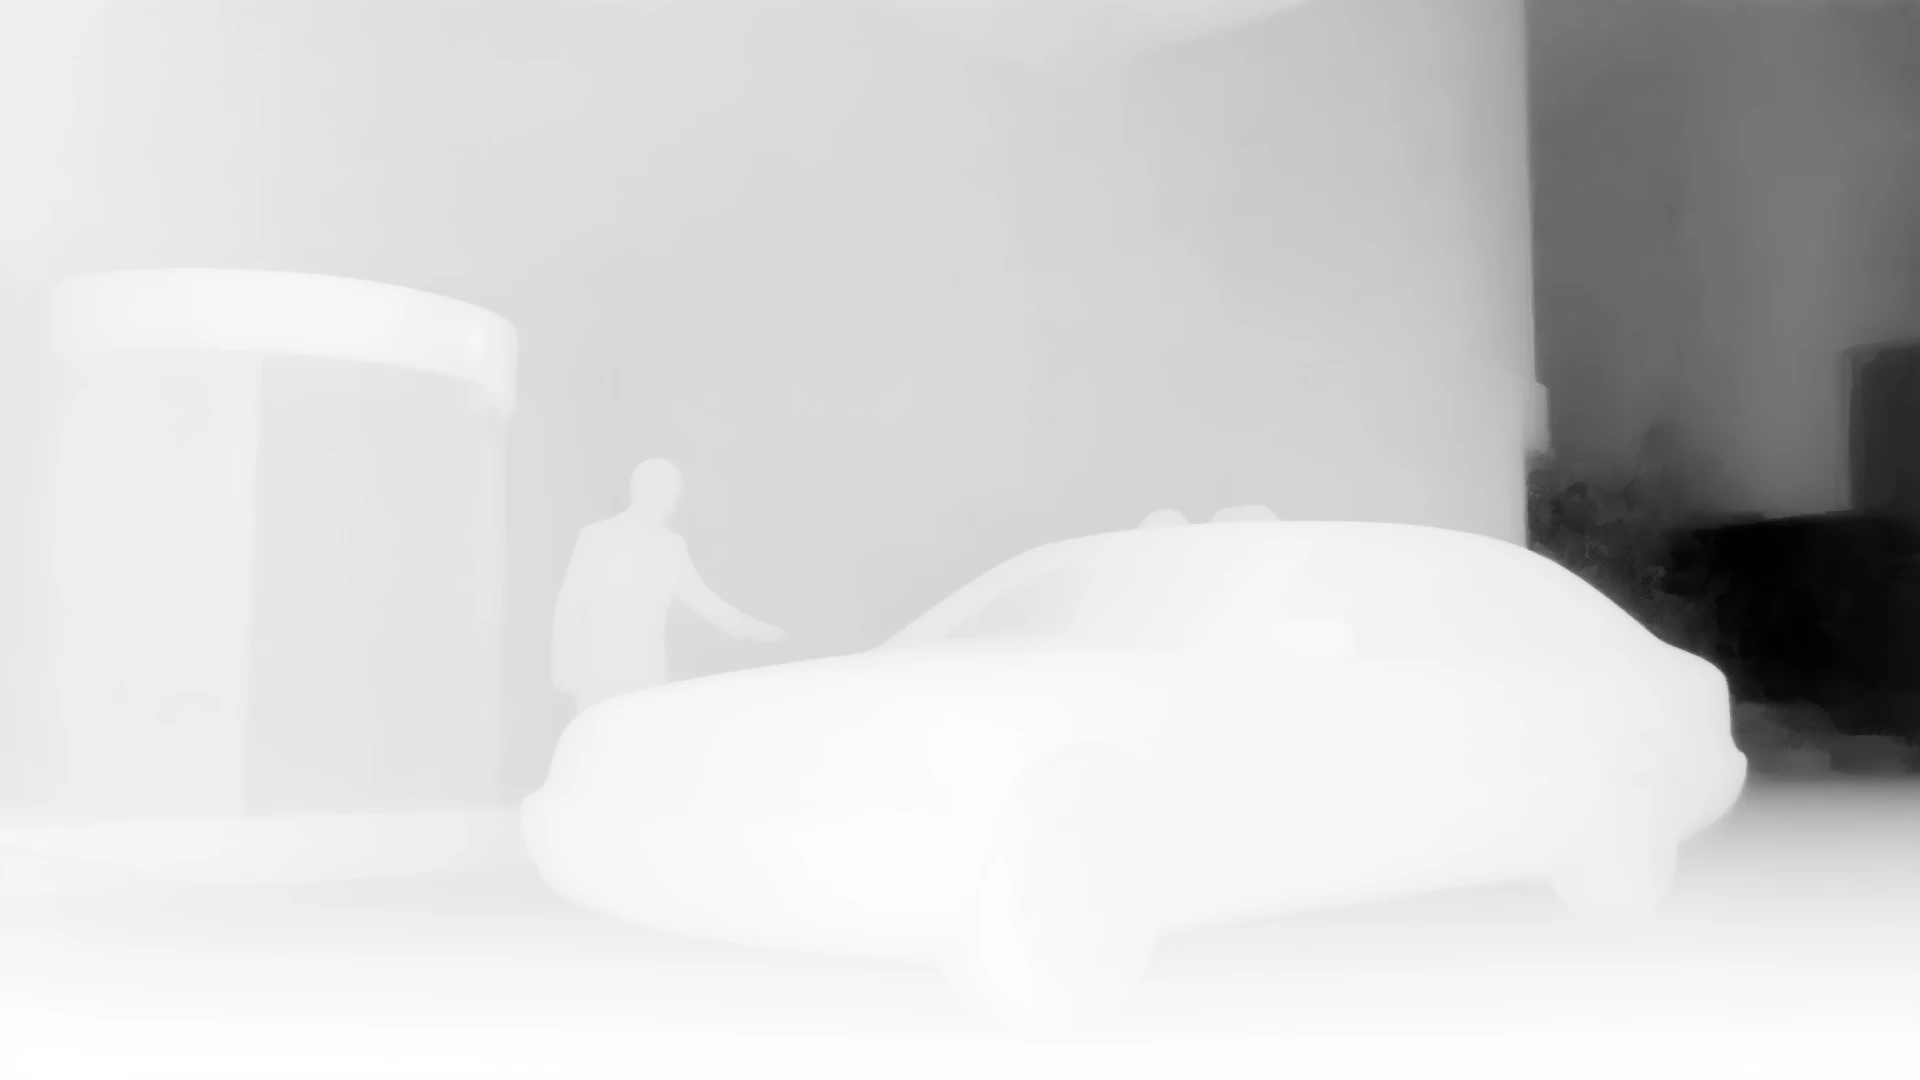
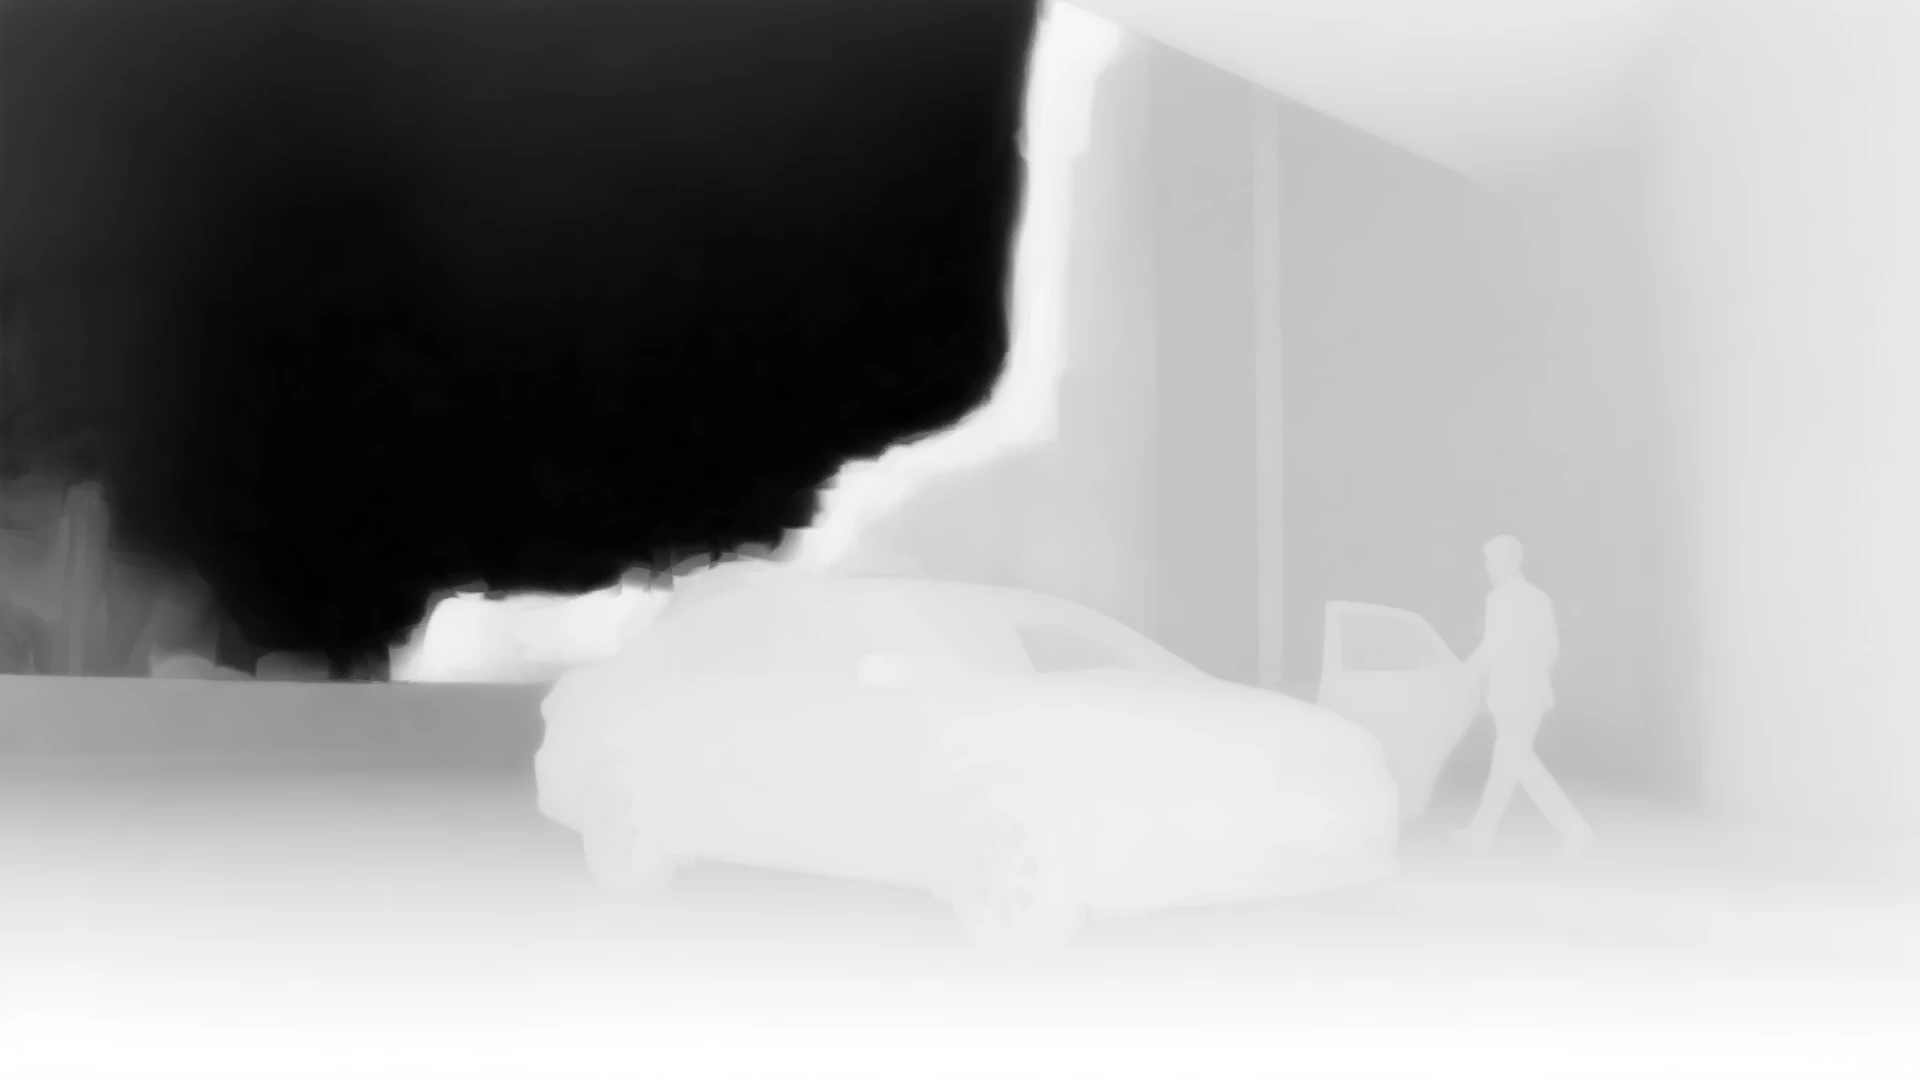
fix(media): reshoot service/airport, service/business, trust with named fleet vehicles
Reshot the three scenes flagged in the S1 inventory: prompts now name the actual
fleet vehicle (Toyota Alphard-class MPV, Corolla Altis-class sedan) instead of a
generic role description, following the pattern that already fixed hero.

trust improved substantially (no more gold-plated door trim or fabricated bottle
label) but still has a small gold latch and chrome sill trim. service/airport and
service/business each traded their original trade-dress problem for a different
set of violations (gold badge/trim, taxi-style roof light, visible sun, teal
signage) rather than landing clean - not usable as-is, no third attempt made per
the no-retry-chasing rule. Full per-scene findings and the scene/airport canopy
decision are in the updated inventory doc.

diff --git a/scripts/media/scenes.ts b/scripts/media/scenes.ts
@@ -14,11 +14,11 @@ export const SCENES: Scene[] = [
   },
   {
     id: 'service/airport', dir: 'parallax/service/airport', width: 1920, height: 1080, needsDepth: true,
-    prompt: `Arrival hall of a modern Asian airport seen from a distance, a chauffeur waiting with a name board, travellers blurred in motion, wide calm composition with space on the left. ${PALETTE}`,
+    prompt: `A plain black Toyota Alphard class three-row MPV van waiting at an airport arrivals kerb, no roof sign, no taxi markings, no signboard, plain unadorned grille with no ornament and no badge, a chauffeur in a dark suit standing at the open sliding door, glass terminal facade and a concrete canopy behind, travellers blurred in the far background, flat overcast daylight with no visible sun, calm wide composition with open space on the left. ${PALETTE}`,
   },
   {
     id: 'service/business', dir: 'parallax/service/business', width: 1920, height: 1080, needsDepth: true,
-    prompt: `Executive sedan pulling up to a glass office tower entrance in Bangkok, morning, doorman stepping forward, reflections on the car body, wide calm composition. ${PALETTE}`,
+    prompt: `A plain black mid-size sedan of Toyota Corolla Altis class, simple horizontal grille with no ornament and no badge, stopped at the kerb outside a glass office tower in Bangkok, a doorman stepping toward the rear door, wet pavement reflecting the grey sky, flat overcast morning light with no visible sun, calm wide composition with open space on the left. ${PALETTE}`,
   },
   {
     id: 'service/rental', dir: 'parallax/service/rental', width: 1920, height: 1080, needsDepth: true,
@@ -26,7 +26,7 @@ export const SCENES: Scene[] = [
   },
   {
     id: 'trust', dir: 'parallax/trust', width: 1920, height: 1080, needsDepth: false,
-    prompt: `Close detail of a clean vehicle interior, folded cold towel and bottled water in a door pocket, shallow focus, nobody in frame, quiet hotel dossier mood. ${PALETTE}`,
+    prompt: `Close detail of a clean vehicle interior in matte black plastic and grey fabric, a folded grey cold towel and a plain unlabelled water bottle resting in a door pocket, shallow focus, nobody in frame, no gold, no chrome, no logos, no lettering of any kind, soft even indoor light. ${PALETTE}`,
   },
   {
     id: 'close', dir: 'parallax/close', width: 2560, height: 1097, needsDepth: true,

diff --git a/docs/superpowers/plans/2026-07-27-landing-media-inventory.md b/docs/superpowers/plans/2026-07-27-landing-media-inventory.md
@@ -11,17 +11,23 @@ produced).
 | Scene | Status | Why |
 |---|---|---|
 | `hero` | **Approved** (Task 3 + fix round) | Plain MPV, no ornament/gold/badge, left 40% clear |
-| `service/airport` | **NEEDS RESHOOT** | Rolls-Royce-style grille/gold wheels, taxi roof light, taxi pickup signboard, visible sun |
-| `service/business` | **NEEDS RESHOOT** | Grille/headlight design reads as a specific real brand (Mercedes-Benz S-Class); vehicle also larger than our Altis-class fleet |
+| `service/airport` | **STILL NEEDS RESHOOT** (S2 attempt #2 failed, new problems) | Vehicle now correctly Alphard-class, but gold-plated Toyota badge + gold lower-bumper trim on the vehicle, visible sun, teal terminal signage |
+| `service/business` | **STILL NEEDS RESHOOT** (S2 attempt #2 failed, new problems) | Vehicle now correctly Corolla Altis-class, but a taxi-style roof light box, a Toyota badge on the grille, visible sun, small teal accent |
 | `service/rental` | Clean | No violations found |
-| `trust` | **NEEDS RESHOOT** | Gold-plated door handle + trim strip on the vehicle; fabricated brand-like text/logo on the water bottle label |
+| `trust` | **Improved, minor residual issues** (S2 attempt #2) | No more giant gold handle/fake bottle label, but a small gold-toned door latch and a chrome sill-trim strip remain |
 | `close` | Clean | No violations found |
-| `scene/airport` (`airport/`) | Soft concern | Van itself clean, but canopy carries a repeated row of ornate gold temple-style finials — more than "a rare accent" |
+| `scene/airport` (`airport/`) | **Kept as-is (S2 decision)** | Canopy gold finials read as generic Thai architectural ornament, not vehicle/brand trade dress — see S2 section below |
 
-Three of six newly generated scenes are not usable as-is. Per instruction, none were
-regenerated — this document and the accompanying report describe exactly what's
-wrong so a human can decide the next prompt rewrite, the same way the hero fix round
-worked.
+Three of six newly generated scenes were not usable as-is (first pass, S1). Per
+instruction, none were regenerated at the time — that first report described exactly
+what was wrong so a human could decide the next prompt rewrite. See the **"S2
+reshoot"** section near the end of this document for the second-pass results: one
+prompt rewrite round (naming the actual fleet vehicle explicitly, following the hero
+pattern) fixed the original problems on all three scenes but `service/airport` and
+`service/business` each surfaced a *new* set of violations instead of a clean pass;
+`trust` improved substantially but still has two minor residual issues. Per the "no
+retry-chasing" rule, none of the three were regenerated a third time — reported
+plainly, stopped, human decision needed again.
 
 ## File table (real dimensions and sizes)
 
@@ -30,16 +36,16 @@ worked.
 | `hero/color.webp` | 2560×1104 | 172,432 | 168.4 |
 | `hero/depth.webp` | 2560×1104 | 26,318 | 25.7 |
 | `hero/flat.webp` | 1280×552 | 36,332 | 35.5 |
-| `service/airport/color.webp` | 1920×1080 | 123,312 | 120.4 |
-| `service/airport/depth.webp` | 1920×1080 | 24,596 | 24.0 |
-| `service/airport/flat.webp` | 1280×720 | 35,328 | 34.5 |
-| `service/business/color.webp` | 1920×1080 | 177,156 | 173.0 |
-| `service/business/depth.webp` | 1920×1080 | 16,222 | 15.8 |
-| `service/business/flat.webp` | 1280×720 | 53,102 | 51.9 |
+| `service/airport/color.webp` | 1920×1080 | 169,180 | 165.2 |
+| `service/airport/depth.webp` | 1920×1080 | 19,452 | 19.0 |
+| `service/airport/flat.webp` | 1280×720 | 43,584 | 42.6 |
+| `service/business/color.webp` | 1920×1080 | 152,594 | 149.0 |
+| `service/business/depth.webp` | 1920×1080 | 21,972 | 21.5 |
+| `service/business/flat.webp` | 1280×720 | 46,080 | 45.0 |
 | `service/rental/color.webp` | 1920×1080 | 165,384 | 161.5 |
 | `service/rental/depth.webp` | 1920×1080 | 15,992 | 15.6 |
 | `service/rental/flat.webp` | 1280×720 | 44,874 | 43.8 |
-| `trust/color.webp` | 1920×1080 | 108,260 | 105.7 |
+| `trust/color.webp` | 1920×1080 | 109,778 | 107.2 |
 | `close/color.webp` | 2560×1104 | 164,356 | 160.5 |
 | `close/depth.webp` | 2560×1104 | 29,554 | 28.9 |
 | `close/flat.webp` | 1280×552 | 35,738 | 34.9 |
@@ -63,14 +69,17 @@ knowing before assuming a future scene will land on its exact declared size.
 
 ```
 $ du -sh public/images/parallax/
-1.5M
+1.6M
 ```
 
-Exact total: **1,564,286 bytes ≈ 1.49 MB** across all 19 files (manifest.json is
-negligible text on top of that). Well under the 6 MB ceiling — no webp quality
-reduction was needed. `color`/`depth` were encoded at the pipeline's existing quality
-90; `flat` composites were encoded fresh at quality 78 per this task's instruction
-(1280px wide, from the `color` pass).
+Exact total (measured after the S2 reshoot, summing every real `.webp` file on disk):
+**1,588,950 bytes ≈ 1.52 MB** across the same 19 files (`service/airport`,
+`service/business`, `trust` color/depth/flat were overwritten in place by
+`--force`; file count unchanged). manifest.json is negligible text on top of this
+and not included. Well under the 6 MB ceiling — no webp quality reduction was needed.
+`color`/`depth` are encoded at the pipeline's existing quality 90; `flat` composites
+at quality 78, 1280px wide, built fresh from each scene's `color` pass with
+`sharp(colorPath).resize({ width: 1280 }).webp({ quality: 78 })`.
 
 ## Spend and balance — full ledger across the whole media pipeline effort
 
@@ -80,8 +89,9 @@ reduction was needed. `color`/`depth` were encoded at the pipeline's existing qu
 | Task 3: original hero (color + depth, since-discarded prompt) | $9.88865 | $0.04776 |
 | Fix round: hero regenerated with corrected prompt (kept, approved) | $9.847725 | $0.040925 |
 | Task 4: remaining 6 scenes, 11 jobs (6 color + 5 depth; `trust` has no depth) | $9.567825 | $0.2799 |
-| **Total spent so far** | | **$0.368585** |
-| **Closing balance** | **$9.567825** | |
+| S2 reshoot: `service/airport` (color+depth) + `service/business` (color+depth) + `trust` (color only) | $9.435645 | $0.13218 |
+| **Total spent so far** | | **$0.500765** |
+| **Closing balance** | **$9.435645** | |
 
 Task 4's own estimate (`npx tsx scripts/gen-media.ts`, dry run before spending) was
 **$0.27** (6 × $0.03 color + 5 × $0.01776 depth = $0.2688, printed rounded). Actual
@@ -93,6 +103,14 @@ to let any lagged depth-compute billing settle — no further movement, so this 
 is final, not a snapshot mid-settle (the fix round found marigold's charge can post
 several seconds after the job reports done; this run's number had already settled by
 the time of the second check).
+
+**S2 reshoot spend** (2026-07-27, second pass): dry-run estimates were $0.05 +
+$0.05 + $0.03 = $0.13 for the three scenes (`service/airport` 2 jobs, `service/business`
+2 jobs, `trust` 1 job — `needsDepth: false`). Balance before: $9.567825. Balance
+immediately after all three `--run --force --only <id>` invocations: $9.435645;
+rechecked 15s later: unchanged at $9.435645 (settled). Actual spend: **$0.13218**,
+about 1.7% over the $0.13 estimate — consistent with `marigold-depth`'s variable
+compute-time billing.
 
 ## Prompts on record
 
@@ -216,6 +234,116 @@ scene toward an ornate/gilded look rather than the intended restrained one. Like
 fix if this needs tightening: add "plain modern canopy structure, no ornamental
 finials" to this prompt specifically.
 
+## S2 reshoot (2026-07-27, second pass) — three prompts rewritten, three results
+
+Coordinator's instruction: the three failing S1 scenes all failed for the same root
+cause diagnosed above — the prompt never named the actual vehicle, so the model
+reached for its default "luxury car" association (gold Rolls-Royce grille, Mercedes
+S-Class front end, gold-plated interior trim + a fabricated bottle label). The fix,
+following the pattern that already worked for `hero`, was to name the real fleet
+vehicle explicitly in each of the three prompts. `scripts/media/scenes.ts` was edited
+so only these three prompts changed; the shared `PALETTE` suffix and every other
+scene's prompt were left untouched (confirmed by reading the full file after editing).
+
+### `service/airport` — new prompt, STILL FAILS (different problems)
+
+```
+A plain black Toyota Alphard class three-row MPV van waiting at an airport arrivals
+kerb, no roof sign, no taxi markings, no signboard, plain unadorned grille with no
+ornament and no badge, a chauffeur in a dark suit standing at the open sliding door,
+glass terminal facade and a concrete canopy behind, travellers blurred in the far
+background, flat overcast daylight with no visible sun, calm wide composition with
+open space on the left.
+```
+
+Result: the vehicle class is now correct (reads convincingly as an Alphard/Vellfire),
+and the taxi roof-light box and taxi signboard from S1 are both gone. But the front
+end now carries a **gold-plated Toyota badge** on the grille and **gold-plated lower
+bumper/skid-plate trim** running the width of the front — the prompt explicitly said
+"no ornament and no badge" and got a prominent gold one anyway. There is also a
+**visible sun** low on the horizon with an orange glow, and **turquoise/teal
+illuminated signage** visible in the terminal glass on both sides of the frame — both
+explicitly banned by `PALETTE`. Net: two of three original problems fixed, but two
+banned elements (sun, teal) recurred and a new one (gold badge/trim on the vehicle)
+appeared. **Not regenerated a second time** — reported and stopped per instruction.
+
+### `service/business` — new prompt, STILL FAILS (different, arguably worse problems)
+
+```
+A plain black mid-size sedan of Toyota Corolla Altis class, simple horizontal grille
+with no ornament and no badge, stopped at the kerb outside a glass office tower in
+Bangkok, a doorman stepping toward the rear door, wet pavement reflecting the grey
+sky, flat overcast morning light with no visible sun, calm wide composition with open
+space on the left.
+```
+
+Result: the vehicle class is now correctly Corolla-Altis-sized (the Mercedes S-Class
+trade dress and oversized silhouette from S1 are gone) — but a **yellow/amber
+roof-mounted light box** on the car's roof reads unmistakably as a Bangkok taxi
+meter light, a **Toyota badge** is visible on the grille despite the prompt saying
+"no badge," a **visible sun** sits low on the horizon with a warm glow, and a small
+**teal-lit accent** is visible near the building's revolving door. The gold-framed
+revolving door from S1 is gone, but a taxi-signage violation that wasn't present
+before has taken its place. **Not regenerated a second time** — reported and
+stopped per instruction.
+
+### `trust` — new prompt, substantially improved, two minor residual issues
+
+```
+Close detail of a clean vehicle interior in matte black plastic and grey fabric, a
+folded grey cold towel and a plain unlabelled water bottle resting in a door pocket,
+shallow focus, nobody in frame, no gold, no chrome, no logos, no lettering of any
+kind, soft even indoor light.
+```
+
+Result: the large gold-plated door handle recess and gold trim strip from S1 are
+gone (the door trim is now genuinely matte black plastic), and the water bottle is
+now genuinely blank — no fabricated logo or text found on inspection. Two smaller
+issues remain: a small brass/gold-toned door latch or lock mechanism is visible on
+the door jamb at the left edge of the frame, and a bright chrome-look strip runs
+along the window-sill trim at the top of the door panel — both are letter-of-the-rule
+violations of "no gold, no chrome" even though neither dominates the frame the way
+the S1 version's gold trim did. **Not regenerated a second time** — reported as an
+improved-but-imperfect result, human call needed on whether this clears the bar.
+
+### `scene/airport` canopy gold finials — decision: leave as-is
+
+Looked directly at `public/images/parallax/airport/color.webp` again (full image, not
+a crop) to make this specific call. What's actually there: a row of roughly 8–9
+ornate gold spire/finial ornaments mounted atop the white support pillars of the
+terminal canopy, plus small gold accent rings at a few pillar capitals lower in the
+frame — repeated enough that, read strictly against `PALETTE`'s "gold allowed only
+as a rare accent," it's more than "rare" by simple count.
+
+**Decision: leave it, do not reshoot.** Reasoning:
+
+1. It sits entirely on background architecture (the terminal canopy), not on the
+   vehicle, the chauffeur, or anything that represents the service itself — the van
+   in this shot is a plain cream/white HiAce-style van with no badge, no gold, no
+   logo anywhere on it (checked again on this pass, unchanged from the S1 finding).
+2. It reads as a generic, recognizable Thai/regional civic-architecture motif (a
+   lotus-bud/chofa-style finial, the kind seen on real government and transit
+   buildings across Thailand) rather than an invented luxury flourish tied to a
+   specific real brand. This is categorically different from the three problems that
+   triggered this reshoot round — a Rolls-Royce grille, a Mercedes S-Class front end,
+   and a gold-plated interior detail are all *product* trade dress; a temple-style
+   finial on a terminal canopy is *place*-signalling (it says "this is Thailand"),
+   which is closer to what an establishing shot is supposed to do.
+3. This same session just demonstrated, twice, that reshooting a scene whose prompt
+   already gets most of the brief right can trade one violation for a different
+   (sometimes worse) one. `scene/airport`'s prompt was never rewritten to name a
+   specific vehicle the way the three reshot scenes were, so a reshoot here carries
+   the same risk with no corrective prompt change lined up and reviewed first. Given
+   this task's explicit authorization covered exactly three scenes, spending further
+   on a fourth without a prompt fix ready and separately approved isn't warranted.
+4. If this needs tightening later, the fix is narrow and known: add "plain modern
+   canopy structure, no ornamental finials" to this one prompt — same pattern as the
+   other fixes in this document — but that's a decision for a future round, not this
+   one.
+
+This is a judgment call, not a clean pass — flagging the tension plainly rather than
+calling it "clean" the way `service/rental` and `close` are.
+
 ## Depth convention — verified on the new scenes too, not assumed from the fix round
 
 Spot-checked three of the five new depth maps (not just trusting that the hero fix
@@ -231,6 +359,33 @@ airport             near≈246   far≈85
 All three: near brighter than far, consistent with the `negate()` fix applied
 uniformly to every `kind: 'depth'` job in `gen-media.ts`. Every depth entry written
 in this run also carries `depthConvention: "near-bright"` in `manifest.json`.
+
+**Note:** the `service/business` row above was sampled from the **S1** depth file,
+which the S2 reshoot has since overwritten on disk (`--force`) — it no longer
+describes what's actually in `service/business/depth.webp` today. The `airport` row
+refers to `scene/airport`, which was **not** regenerated in S2 and is still accurate.
+
+### Depth convention — re-verified after the S2 reshoot, on the actual current files
+
+Sampled the two depth maps the S2 reshoot overwrote (`service/airport`,
+`service/business`). First rendered each depth map full-frame to confirm by eye
+*where* near and far actually are in each composition — in both shots a nearby
+canopy/glass-tower structure occupies much of the upper frame, so "top of frame" is
+not a reliable proxy for "far" here; the genuinely distant element in both shots is a
+hazy background zone toward the upper-left, not the sky directly overhead. Sampled
+raw pixel values from the correctly-identified regions:
+
+```
+service/airport   van body/bumper/chauffeur/road (near): 211–239
+                  distant hazy zone under canopy (far):   35–43
+
+service/business  car body/roof/doorman/pavement (near): 208–239
+                  distant hazy skyline (far):              6–24
+```
+
+Near consistently brighter than far on both files — confirms `depthConvention:
+"near-bright"` holds on the regenerated depth maps, verified by pixel sampling against
+visually-confirmed regions, not assumed from the manifest flag.
 
 ## Known bookkeeping note (fixed going forward, not rewritten in history)
 
